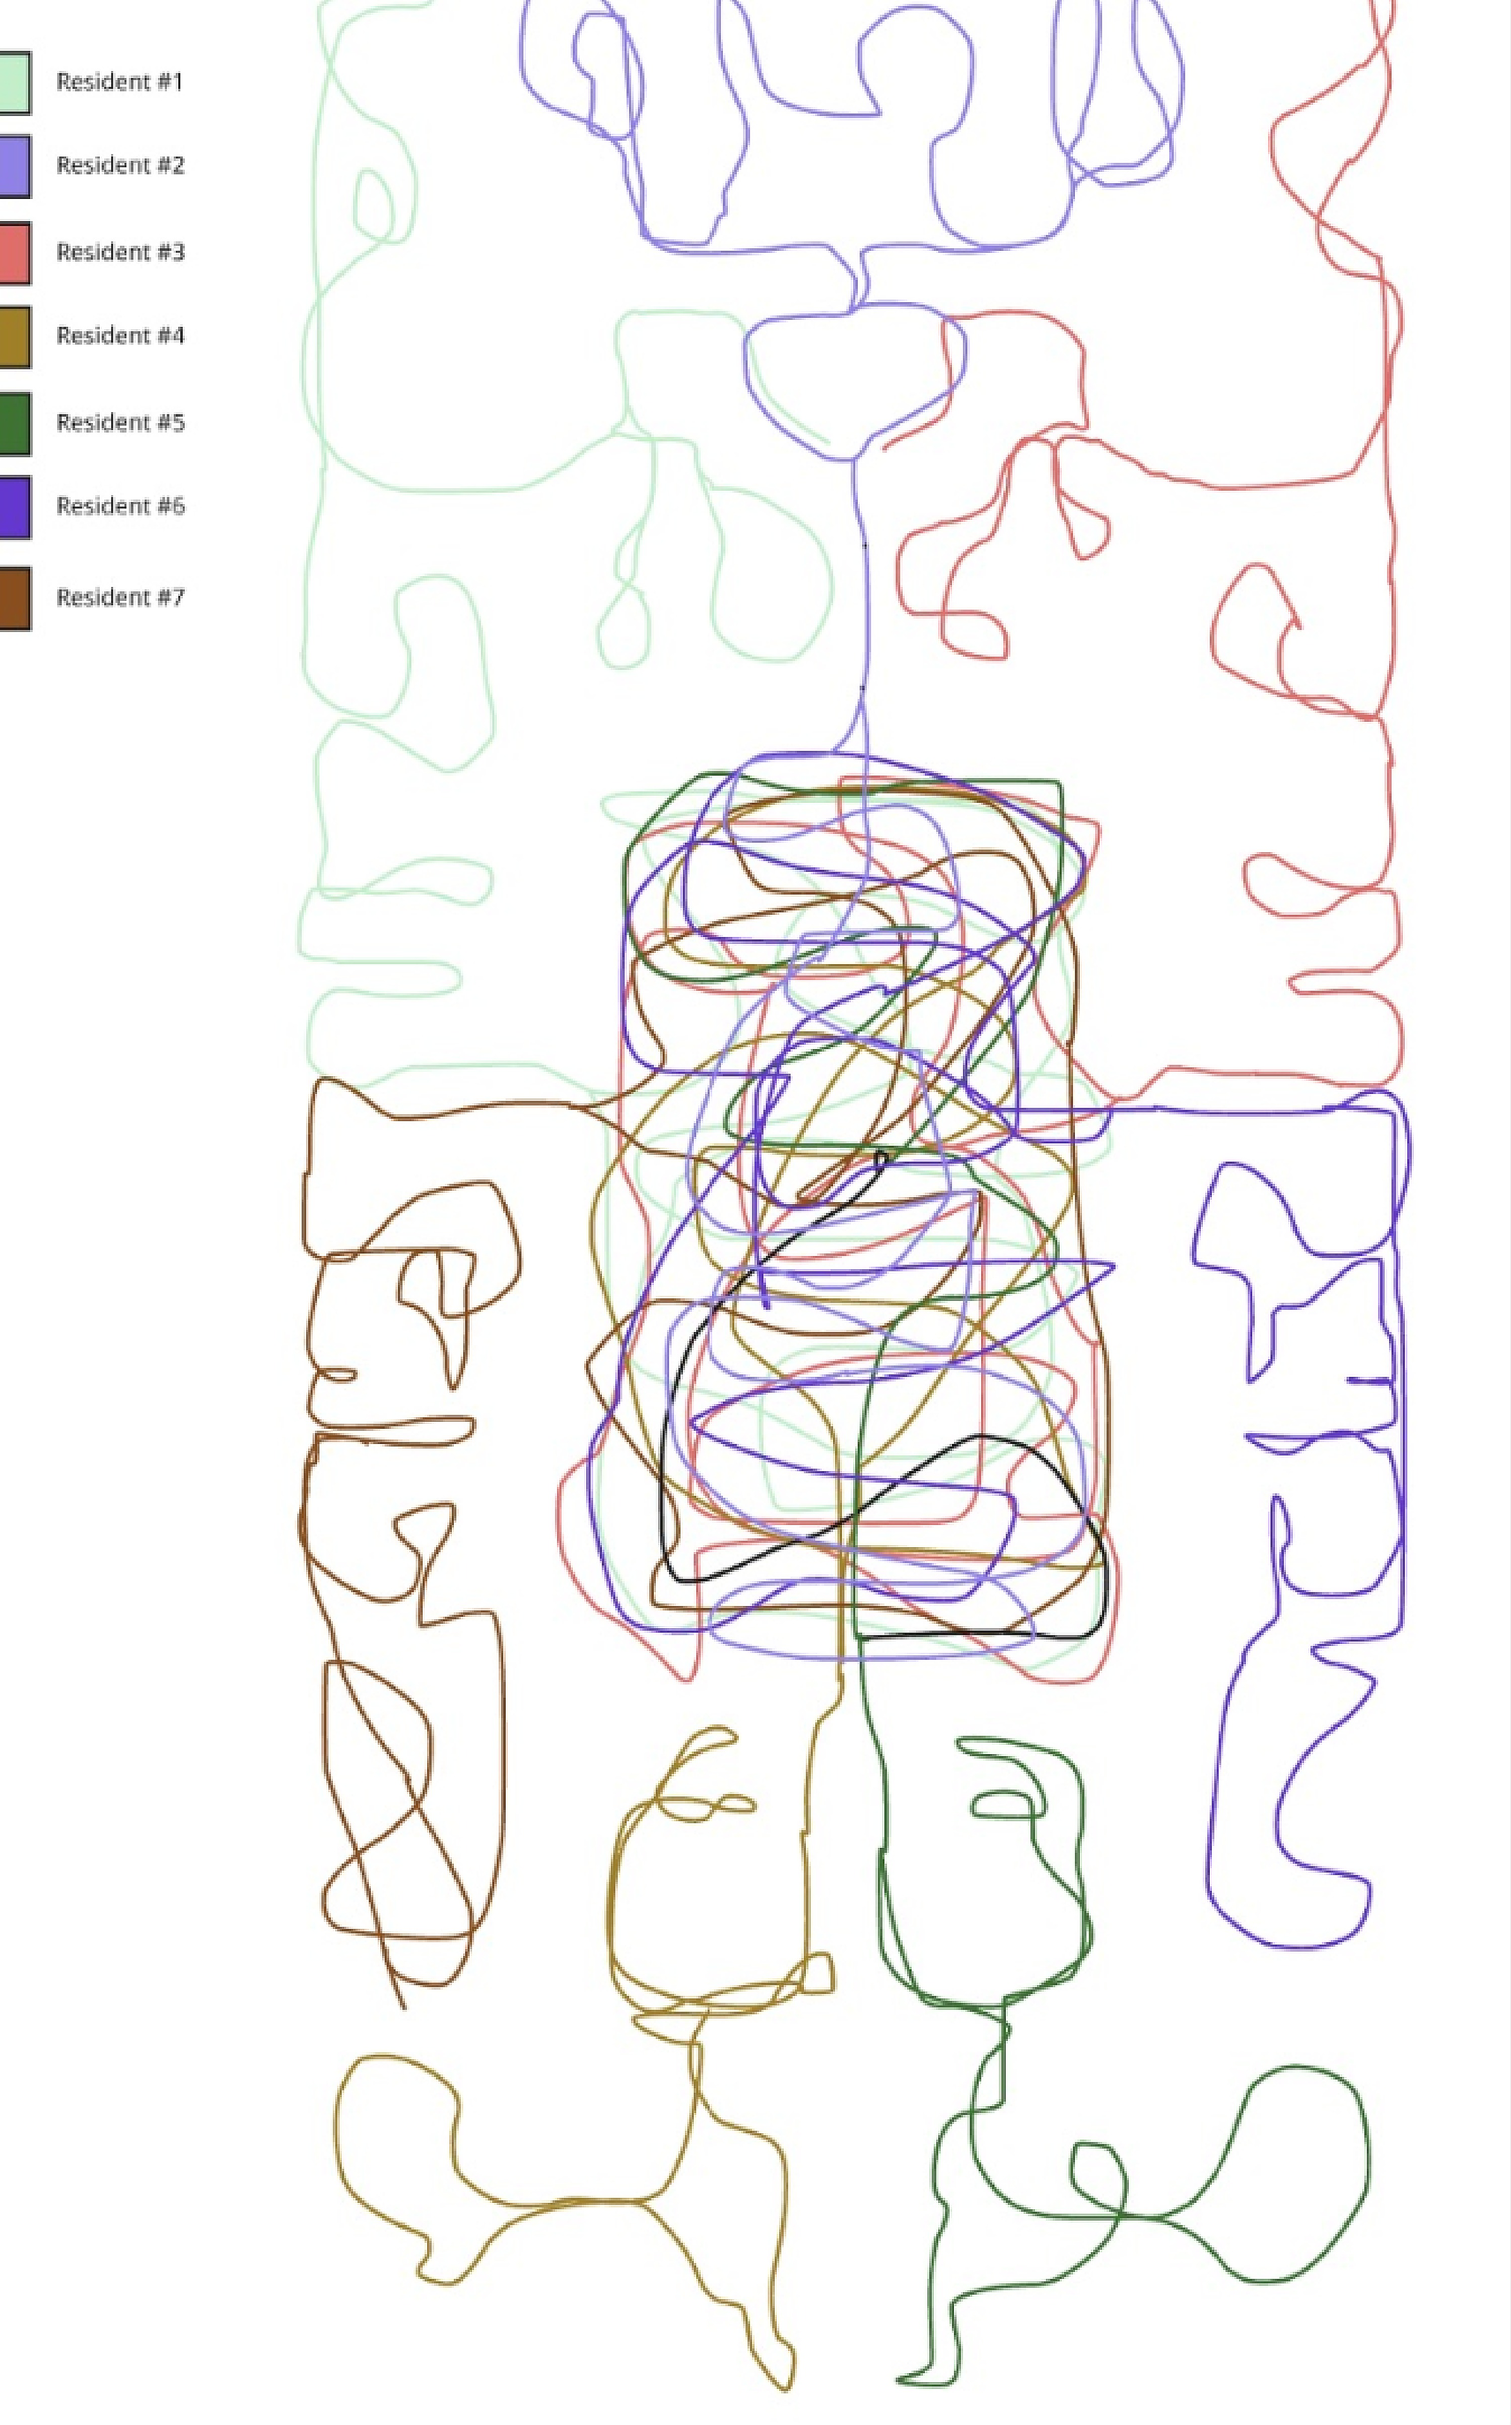
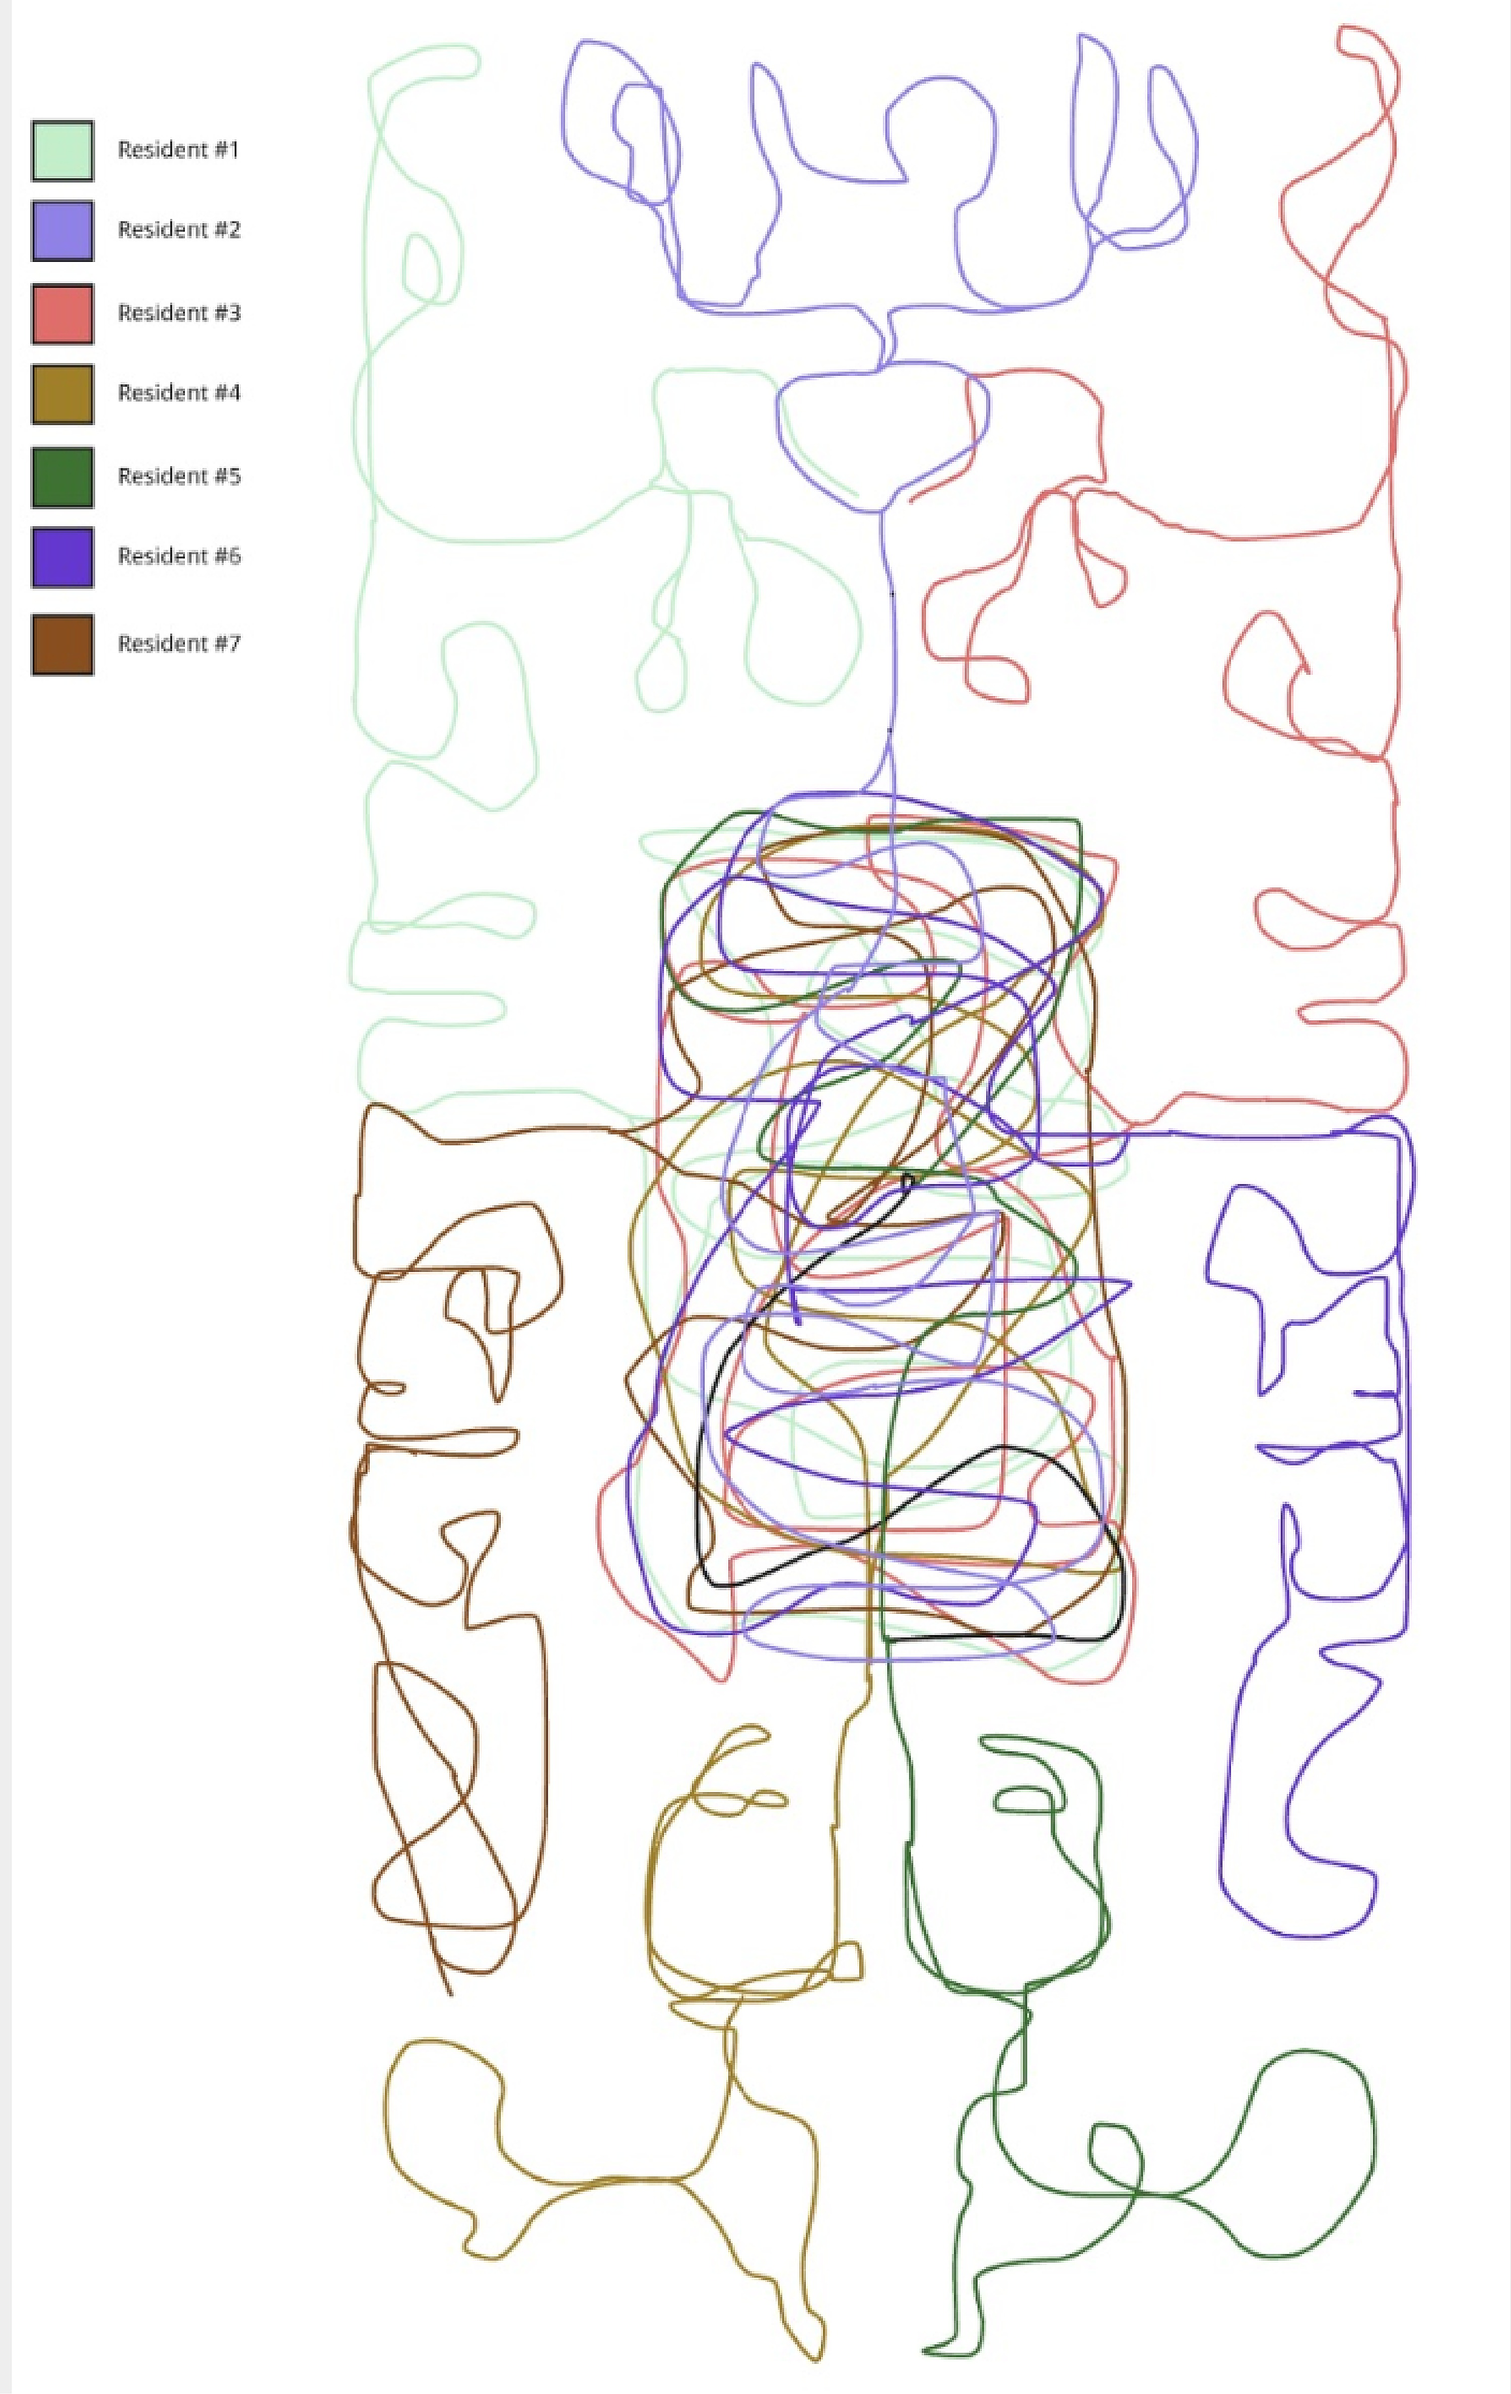
Uncrop Courtyard Tenement/Fallow Urban Plot images, add captions, revert dark treatment (#35)
Split Courtyard Tenement plan/elevation into full-bleed crops (elevation,
plan, privacy diagram) with no cropped content, and added per-image
captions across both galleries explaining what each diagram shows,
including how the colored line drawing traces different residents'
daily paths through the courtyard. Reverted the white-to-navy background
recolor on affected images back to natural colors.

Claude-Session: https://claude.ai/code/session_01Y3q6i29enFuNZCY5dePxfx

diff --git a/portfolio/index.html b/portfolio/index.html
@@ -124,6 +124,8 @@ section{padding:64px 0;border-top:1px solid var(--border);}
 .lightbox-body{flex:0 0 auto;padding:20px 28px;border-top:1px solid var(--border);max-height:32vh;overflow-y:auto;}
 .lightbox-body h3{font-size:19px;font-weight:700;margin-bottom:8px;}
 .lightbox-body p{color:var(--muted);font-size:13px;line-height:1.6;margin-bottom:12px;}
+.image-caption{margin-top:2px;margin-bottom:12px;padding:10px 12px;background:var(--surface2);border-left:2px solid var(--accent);border-radius:0 6px 6px 0;font-size:12.5px;color:var(--text);line-height:1.55;}
+.image-caption-label{display:block;font-family:'Space Mono',monospace;font-size:9px;letter-spacing:0.1em;text-transform:uppercase;color:var(--accent);margin-bottom:4px;}
 .lightbox-nav{display:flex;justify-content:space-between;align-items:center;margin-top:14px;padding-top:14px;border-top:1px solid var(--border);}
 .lightbox-nav-btn{font-family:'Space Mono',monospace;font-size:11px;letter-spacing:0.08em;text-transform:uppercase;color:var(--muted);background:none;border:1px solid var(--border);border-radius:8px;padding:8px 14px;cursor:pointer;transition:color 0.15s,border-color 0.15s;}
 .lightbox-nav-btn:hover{color:var(--accent);border-color:var(--accent);}
@@ -324,6 +326,7 @@ footer{padding:32px 0 60px;text-align:center;font-size:12px;color:var(--dim);fon
       <h3 id="lightbox-title"></h3>
       <p id="lightbox-desc"></p>
       <div class="tag-row" id="lightbox-tags"></div>
+      <div class="image-caption" id="image-caption" style="display:none"></div>
       <div class="lightbox-nav">
         <button class="lightbox-nav-btn" id="lightbox-prev">← Prev</button>
         <span class="lightbox-nav-count" id="lightbox-count"></span>
@@ -356,7 +359,7 @@ const PROFILE = {
 
 // Each project's `images` array can hold one or several photos — the lightbox
 // lets visitors click through all of them for a given project.
-function img(name) { return { thumb: `images/${name}.jpg`, full: `images/full/${name}.jpg` }; }
+function img(name, caption) { return { thumb: `images/${name}.jpg`, full: `images/full/${name}.jpg`, caption: caption || '' }; }
 
 const PROJECTS = [
   {
@@ -397,13 +400,26 @@ const PROJECTS = [
     title: "Courtyard Tenement",
     description: "A speculative courtyard tenement exploring daylight access, passive ventilation, and shared green space — studying how urban density can coexist with thermal comfort, social connection, and environmental performance. Harvard GSD, Summer 2025.",
     tags: ["Architecture", "Harvard GSD"],
-    images: [img("courtyard-1"), img("courtyard-2")]
+    images: [
+      img("courtyard-elevation", "Front elevation of the existing tenement building that grounds the project's context."),
+      img("courtyard-plan", "Ground floor plan mapping private, semi-private, and shared circulation space within the building."),
+      img("courtyard-privacy", "A privacy gradient pattern — the density of hatching shows the transition from fully private units to shared public zones."),
+      img("courtyard-1", "Each colored line traces one resident's daily path through the building. Layering all seven residents' routes reveals how different families cross paths, linger, and carve out their own rhythms of use within the same shared courtyard — making visible the boundary between community and privacy."),
+      img("courtyard-2", "Building section studying daylight access, passive ventilation, and shared green space — how density can coexist with thermal comfort and social connection.")
+    ]
   },
   {
     title: "Fallow Urban Plot",
     description: "A landscape intervention turning a vacant lot into shared public space — native plants reinforce soil structure and define gathering areas, while planting, paths, and seating choreograph shared movement and preserve moments of privacy. Includes site context analysis and iterative design process alongside final diagrams. Harvard GSD, Summer 2025.",
     tags: ["Landscape Design", "Harvard GSD"],
-    images: [img("fallow-plan"), img("fallow-process"), img("fallow-icons"), img("fallow-callout-plan"), img("fallow-2"), img("fallow-3")]
+    images: [
+      img("fallow-plan", "Site context plan mapping the surrounding blocks, existing buildings, and street trees around the vacant lot."),
+      img("fallow-process", "Four rounds of design iteration, working from early bubble diagrams toward a resolved planting and seating layout."),
+      img("fallow-icons", "Design strategy legend — shade trees, permeable paths, raised garden beds, and deep-rooted native plants that structure the intervention."),
+      img("fallow-callout-plan", "Detailed planting and circulation plan, annotated with the site furnishings — bird bath, compost bin, rain barrel, seating — that support everyday use."),
+      img("fallow-2", "Isometric section showing how native plantings anchor the soil above a cut-away view of the ground below."),
+      img("fallow-3", "Collage illustrating how planting, paths, and seating choreograph shared movement while preserving moments of privacy.")
+    ]
   },
   {
     title: "Eastie Farm Site Study",
@@ -610,10 +626,18 @@ function renderLightboxImage() {
         dot.addEventListener('click', e => { e.stopPropagation(); galleryIndex = parseInt(dot.dataset.gi); renderLightboxImage(); });
       });
     }
+    const captionEl = document.getElementById('image-caption');
+    if (current.caption) {
+      captionEl.style.display = 'block';
+      captionEl.innerHTML = `<span class="image-caption-label">This Image</span>${escHtml(current.caption)}`;
+    } else {
+      captionEl.style.display = 'none';
+    }
   } else {
     thumb.style.background = `linear-gradient(135deg,${c1},${c2})`;
     thumb.classList.add('has-gradient');
     thumb.innerHTML = escHtml(p.title);
+    document.getElementById('image-caption').style.display = 'none';
   }
 }
 
